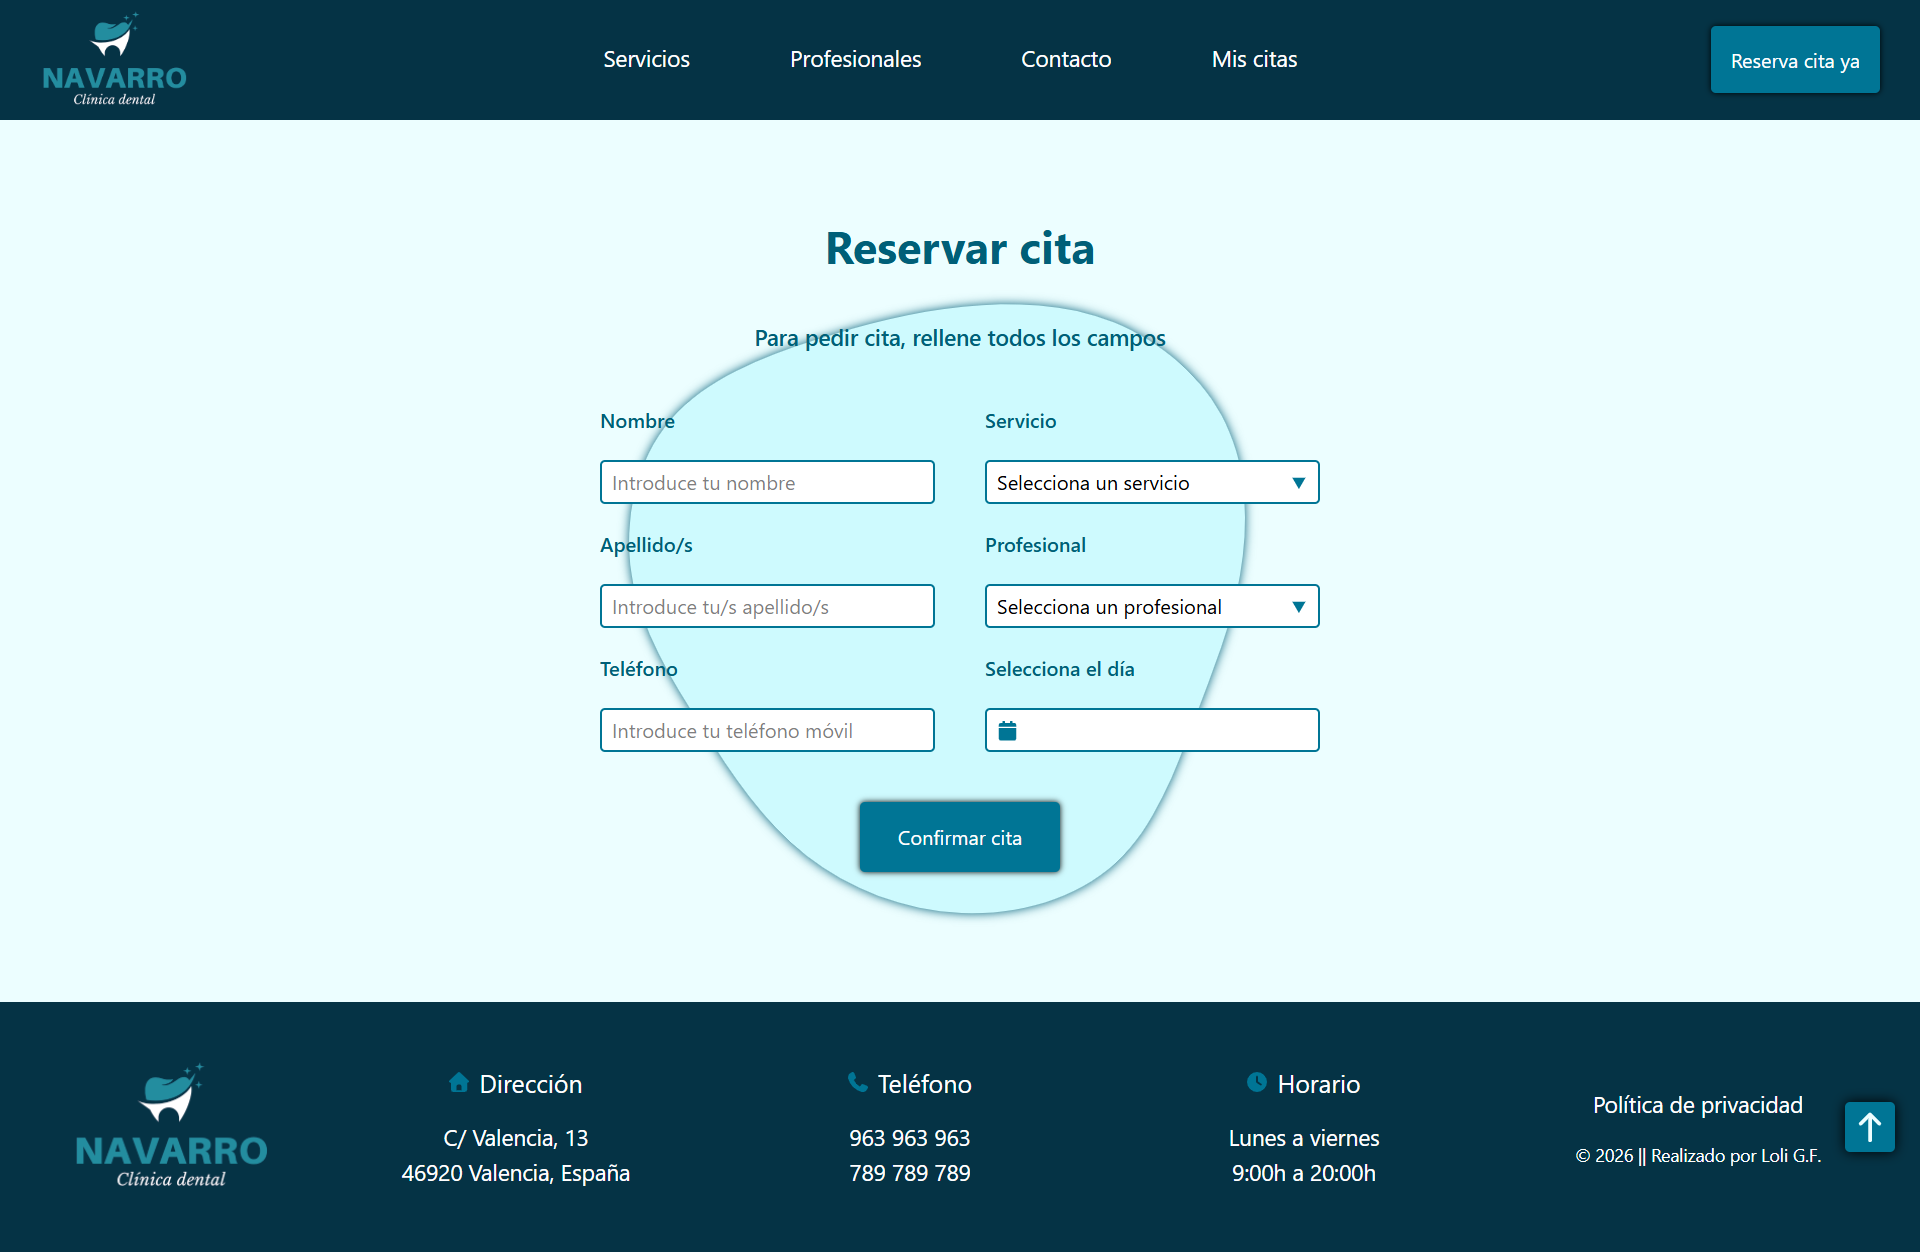
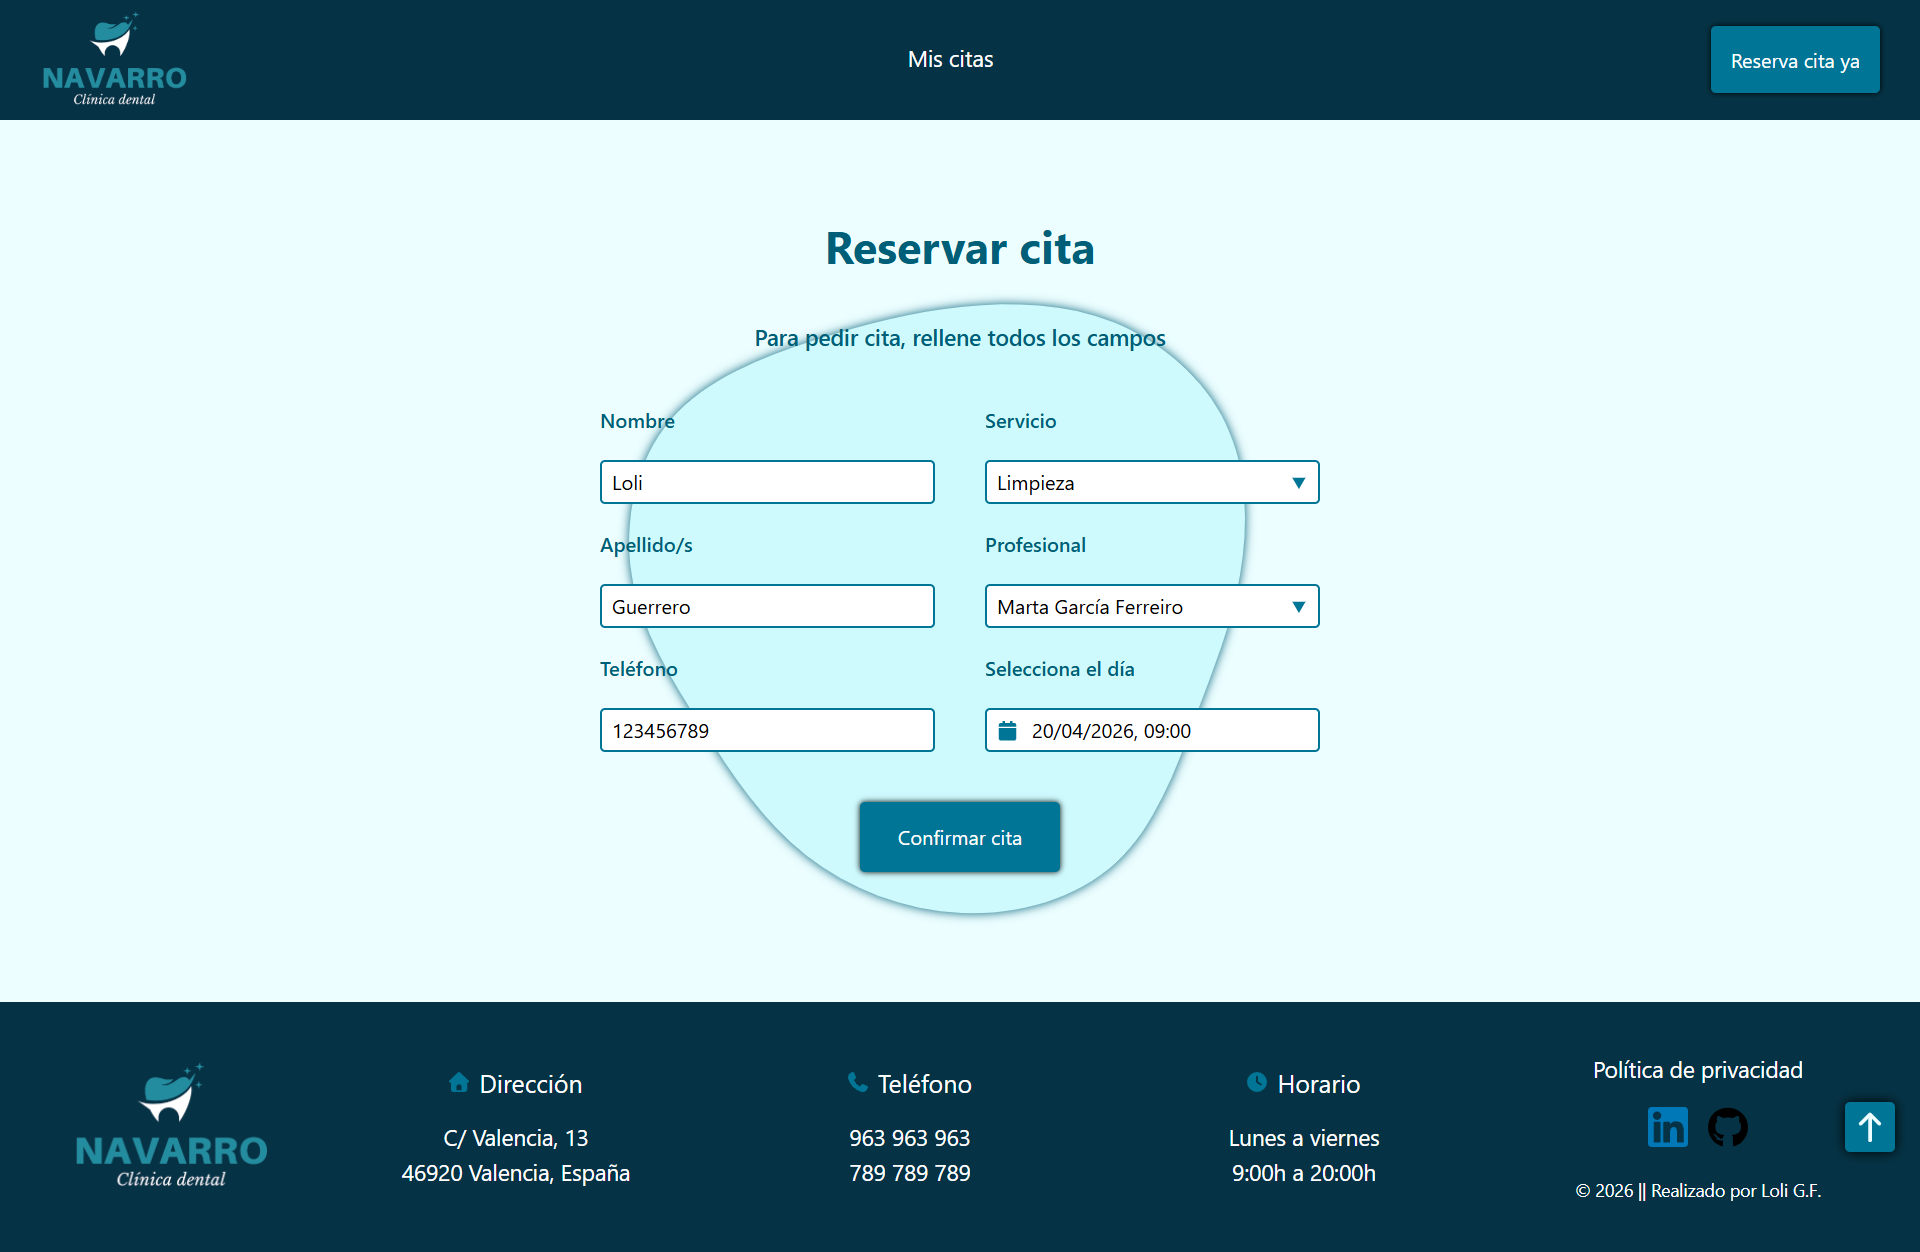
📝 docs: actualización README con imágenes del formulario de reserva y mensaje de confirmación de la cita
Se actualizan las imágenes del formulario de reserva y el mensaje de confirmación de la cita con el menú de navegación actualizado para esas páginas (sin los links de la página Home)

diff --git a/README.md b/README.md
@@ -49,15 +49,15 @@ Sistema de gestión de citas que permite a los usuarios:
 
 ### Reservar cita
 
-![Página Reservar Cita](reservar-cita.png)
+![Formulario para reservar cita](reservar-cita.png)
 
-![Página con la cita reservada](cita-reservada.png)
+![Mensaje de confirmación de la cita reservada](mensaje-confirmacion-reservar-cita.png)
 
 ### Mis Citas
 
-![Página Mis Citas](mis-citas.png)
+![Página para acceder a mis citas](mis-citas.png)
 
-![Acceso rápido](mis-citas-acceso-rapido.png)
+![Acceso rápido (mediante número de teléfono registrado en el formulario)](mis-citas-acceso-rapido.png)
 
 ![Ver cita reservada](mis-citas-acceso-rapido-ver-cita.png)
 
